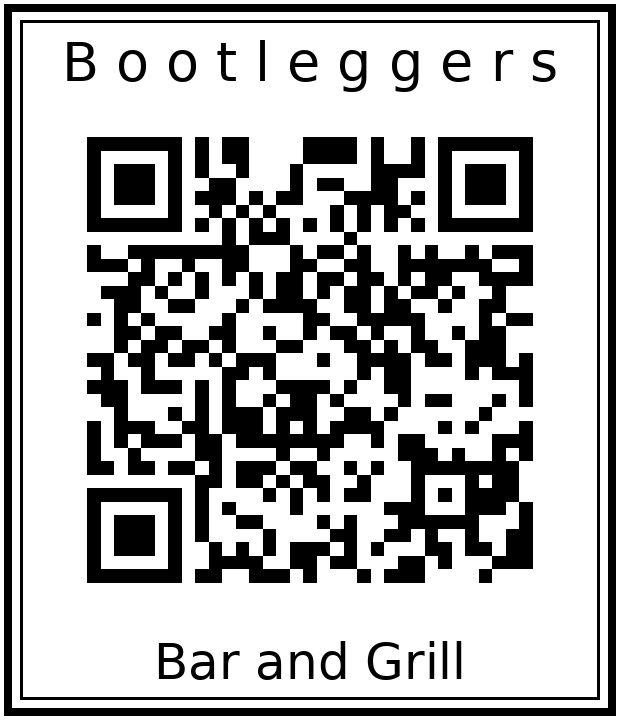
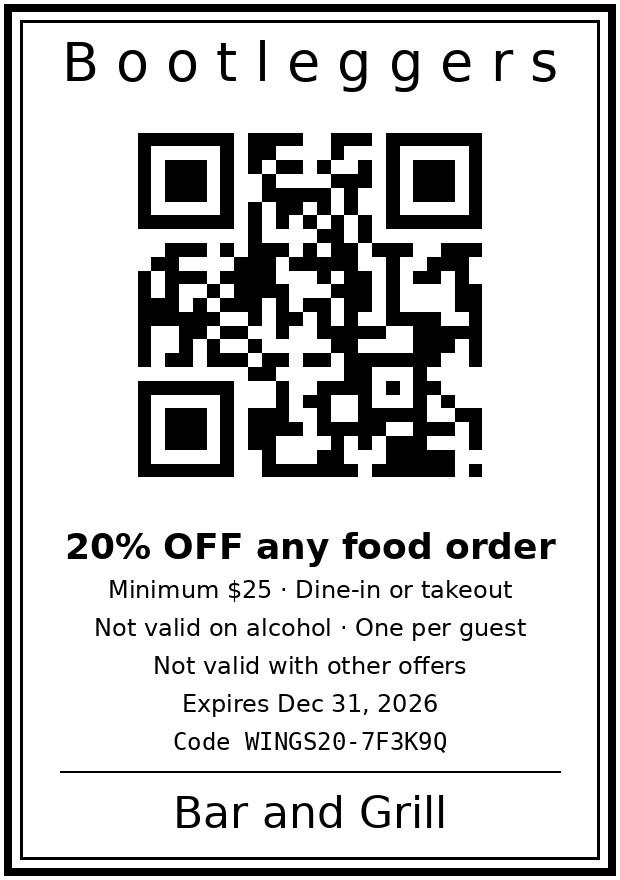
Build list: RRA-122 coupon shows offer as text, QR holds only an ID
Claude-Session: https://claude.ai/code/session_01N3QRaiKpajAdaK2PTMvC5c

diff --git a/TODO.md b/TODO.md
@@ -11,7 +11,7 @@ Previews of RRA-001 to RRA-011 and Settings: /mnt/project-files/previews/rra-001
 - [ ] RRA-028 · Chef review of the starter stock list (items, units, bar list) · Content · S
 
 ## 🔵 Build list
-- [ ] RRA-122 · Coupons: managers/Admin create coupons (percent off, dollar off, free item, BOGO/combo) with rules (min spend, start/end dates, days/hours, dine-in/takeout, stackable or not, one per guest / total uses). Each coupon can be a typed code, a QR code or a barcode (Code 128), or unique one-time codes per customer; the app makes the QR/barcode image to text, email, print or show in "My offers". QR coupons come out as a branded framed image like Gaylan's mockup (2026-11-24): double black border, letter-spaced restaurant name above, a second line ("Bar and Grill") below, the QR in the middle with its white margin kept inside the border; name, tagline and frame style from js/brand.js so rebrands swap them. The name stays outside the QR so the code holds only coupon data (code, unique ID, offer, min spend, expiry, one-use flag) and stays easy to scan; sample approved look in previews (bootleggers-coupon-qr.png). At the POS check, a Coupon button scans the QR/barcode with the camera (BarcodeDetector + ZXing fallback for iPhone, reuse Sourced's scanner) or takes the typed code, checks the rules and adds the discount as a line on the check; redemptions logged (who, when, which check, amount) and shown in sales. Food only by default (alcohol discount rules); coupon text and labels in js/brand.js (Gaylan, 2026-11-24) · Feature · M · added 2026-11-24
+- [ ] RRA-122 · Coupons: managers/Admin create coupons (percent off, dollar off, free item, BOGO/combo) with rules (min spend, start/end dates, days/hours, dine-in/takeout, stackable or not, one per guest / total uses). Each coupon can be a QR code, a barcode (Code 128) or a typed code, optionally unique one-time codes per customer. Coupon image = Gaylan's framed design (2026-11-24, sample previews/rra-122/bootleggers-coupon-qr.png): double black border, letter-spaced restaurant name on top, QR in the middle (white margin kept), then the offer printed as readable text (headline offer, min spend, dine-in/takeout, exclusions, one per guest, expiry, typed code), then the tagline ("Bar and Grill") at the bottom. The QR holds only a short restaurant tag + coupon ID + check characters (e.g. BLG:7F3K9Q-X4), never the offer itself: the POS looks the offer up in the team's own coupon list, so the code stays small and easy to scan, a faked QR can't name its own discount, and another restaurant's app rejects it. Text, frame, name, tagline and the QR tag come from js/brand.js. Send by text, email, print or "My offers". At the POS check a Coupon button scans the QR/barcode with the camera (BarcodeDetector + ZXing fallback for iPhone, reuse Sourced's scanner) or takes the typed code, checks the rules and adds the discount as a line on the check; redemptions logged (who, when, which check, amount) and shown in sales. Food only by default (alcohol discount rules) (Gaylan, 2026-11-24) · Feature · M · added 2026-11-24
 
 ## 🟡 Hold
 - [ ] RRA-104 · POS: live card payments through the restaurant's service (Square Terminal API, Clover REST Pay Display, or Toast order handoff) via the restaurant's server; bar menu with drink prices · Infra · L
